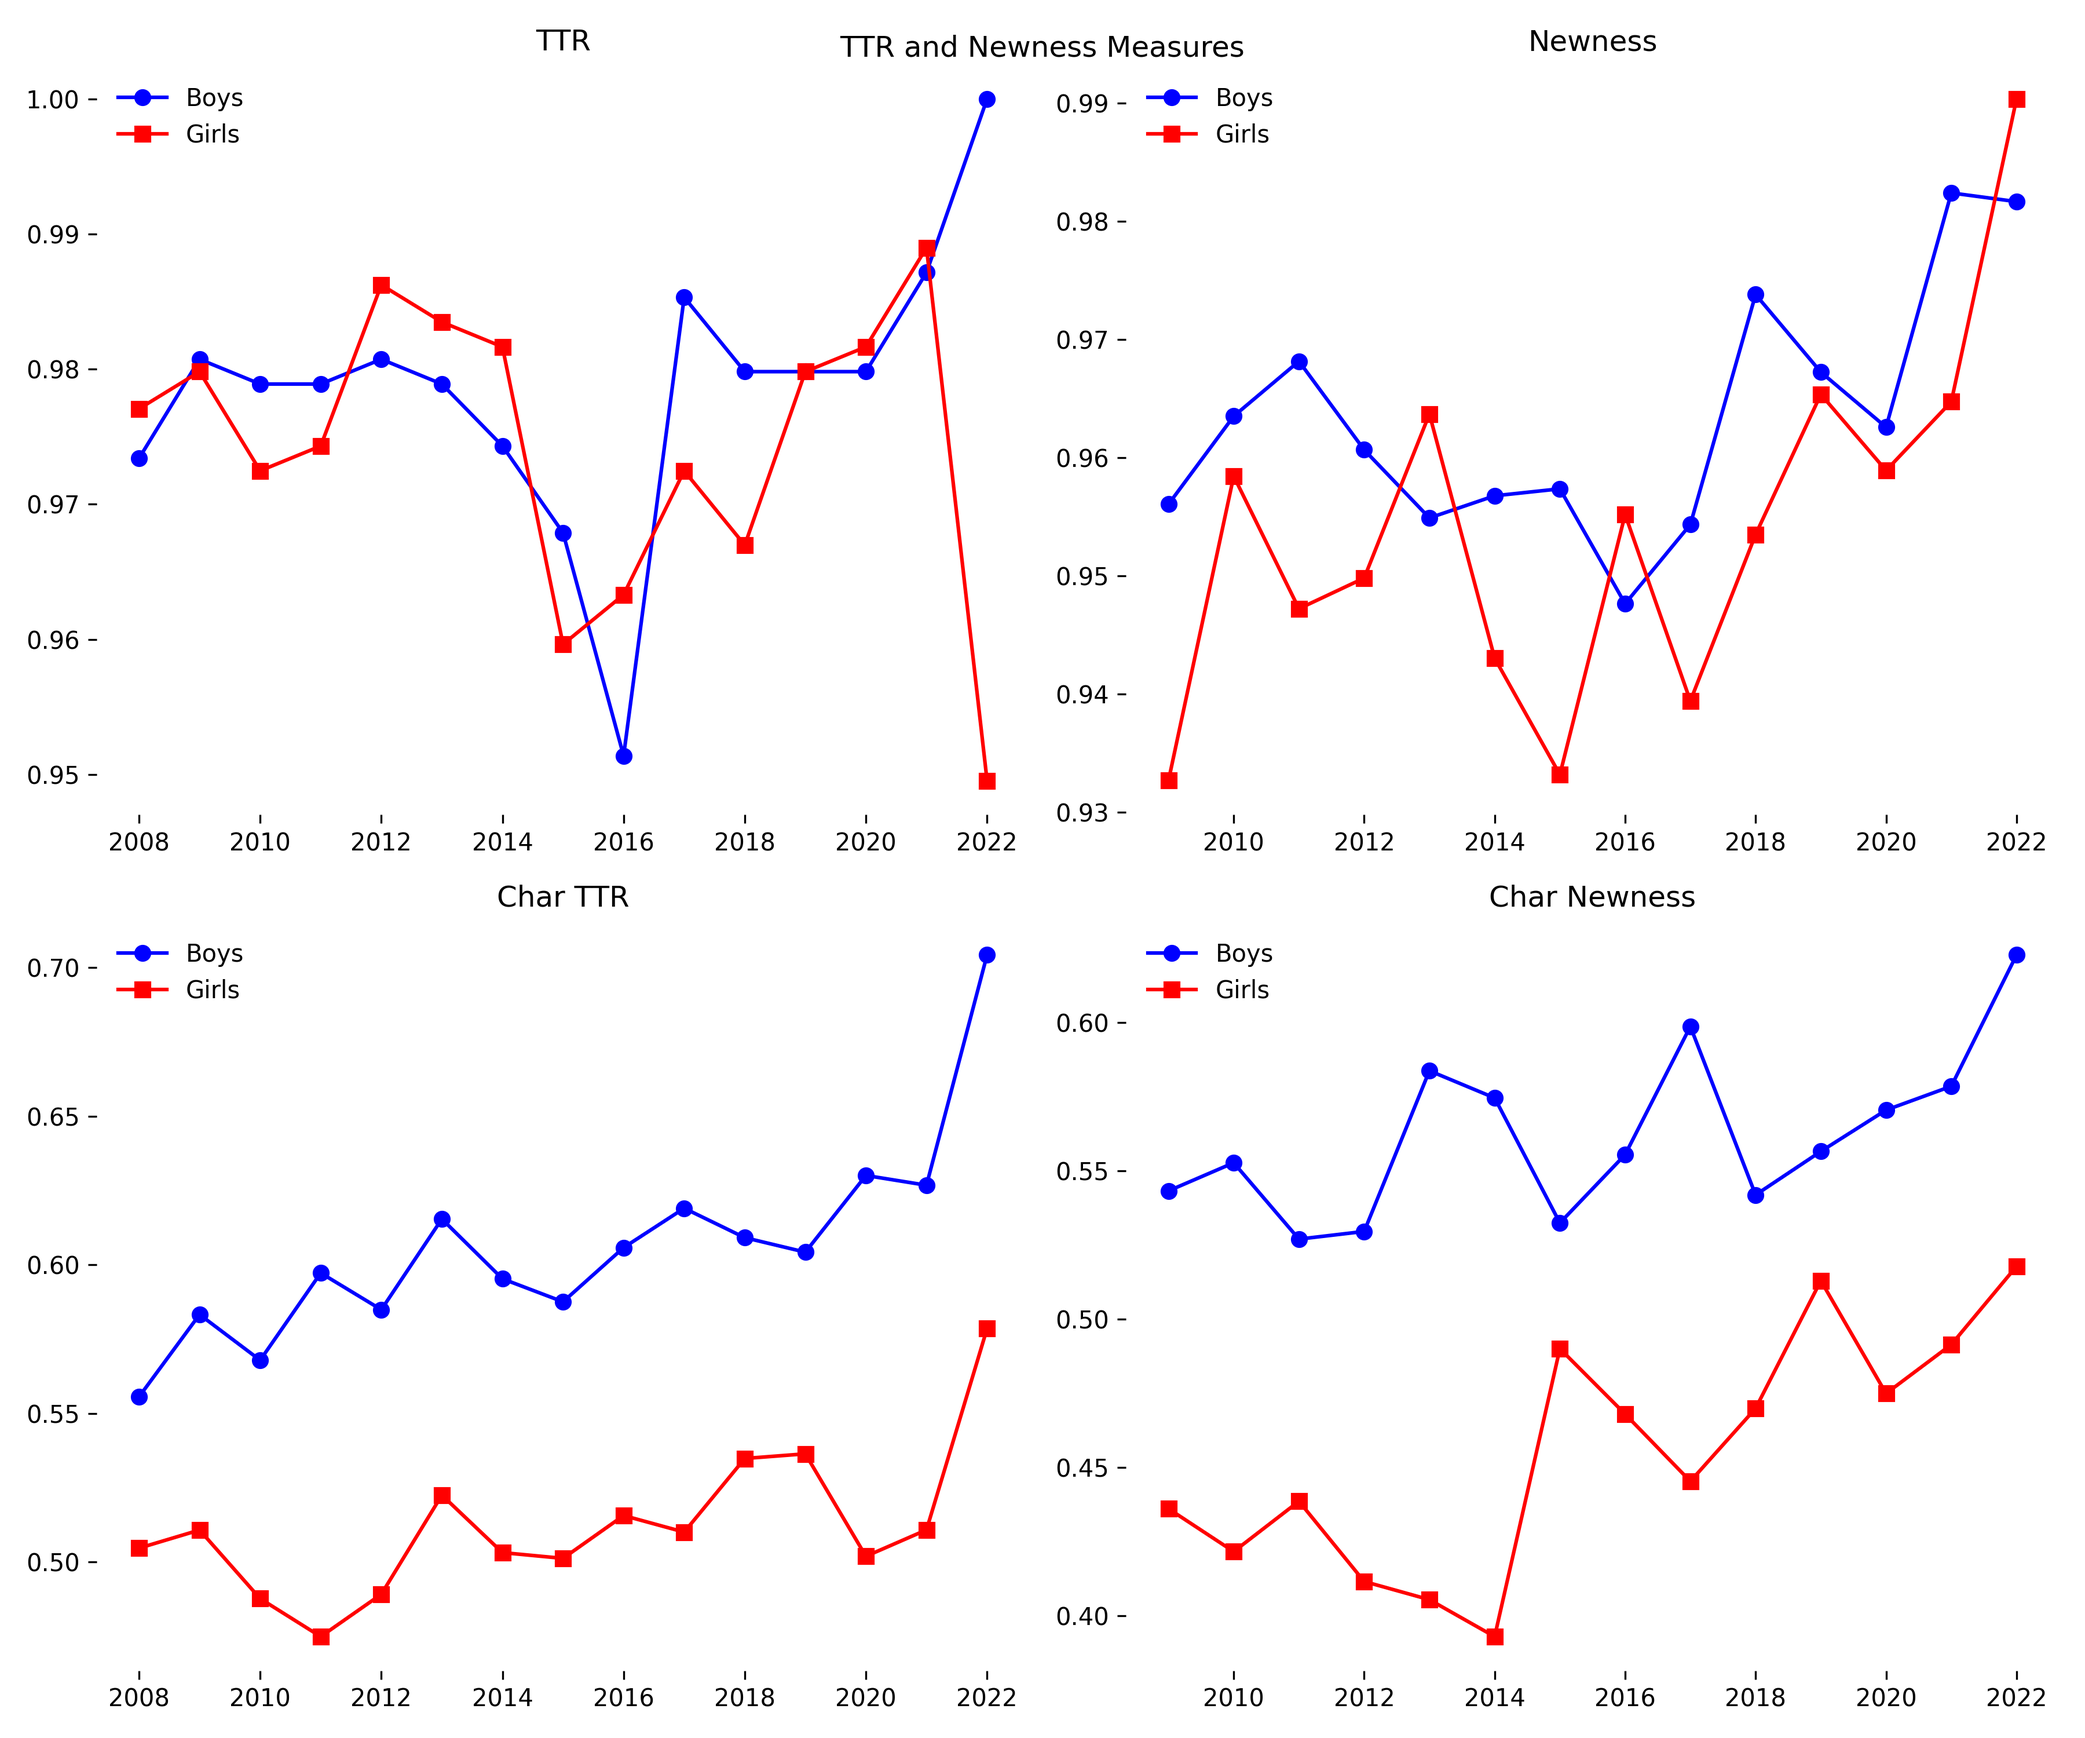
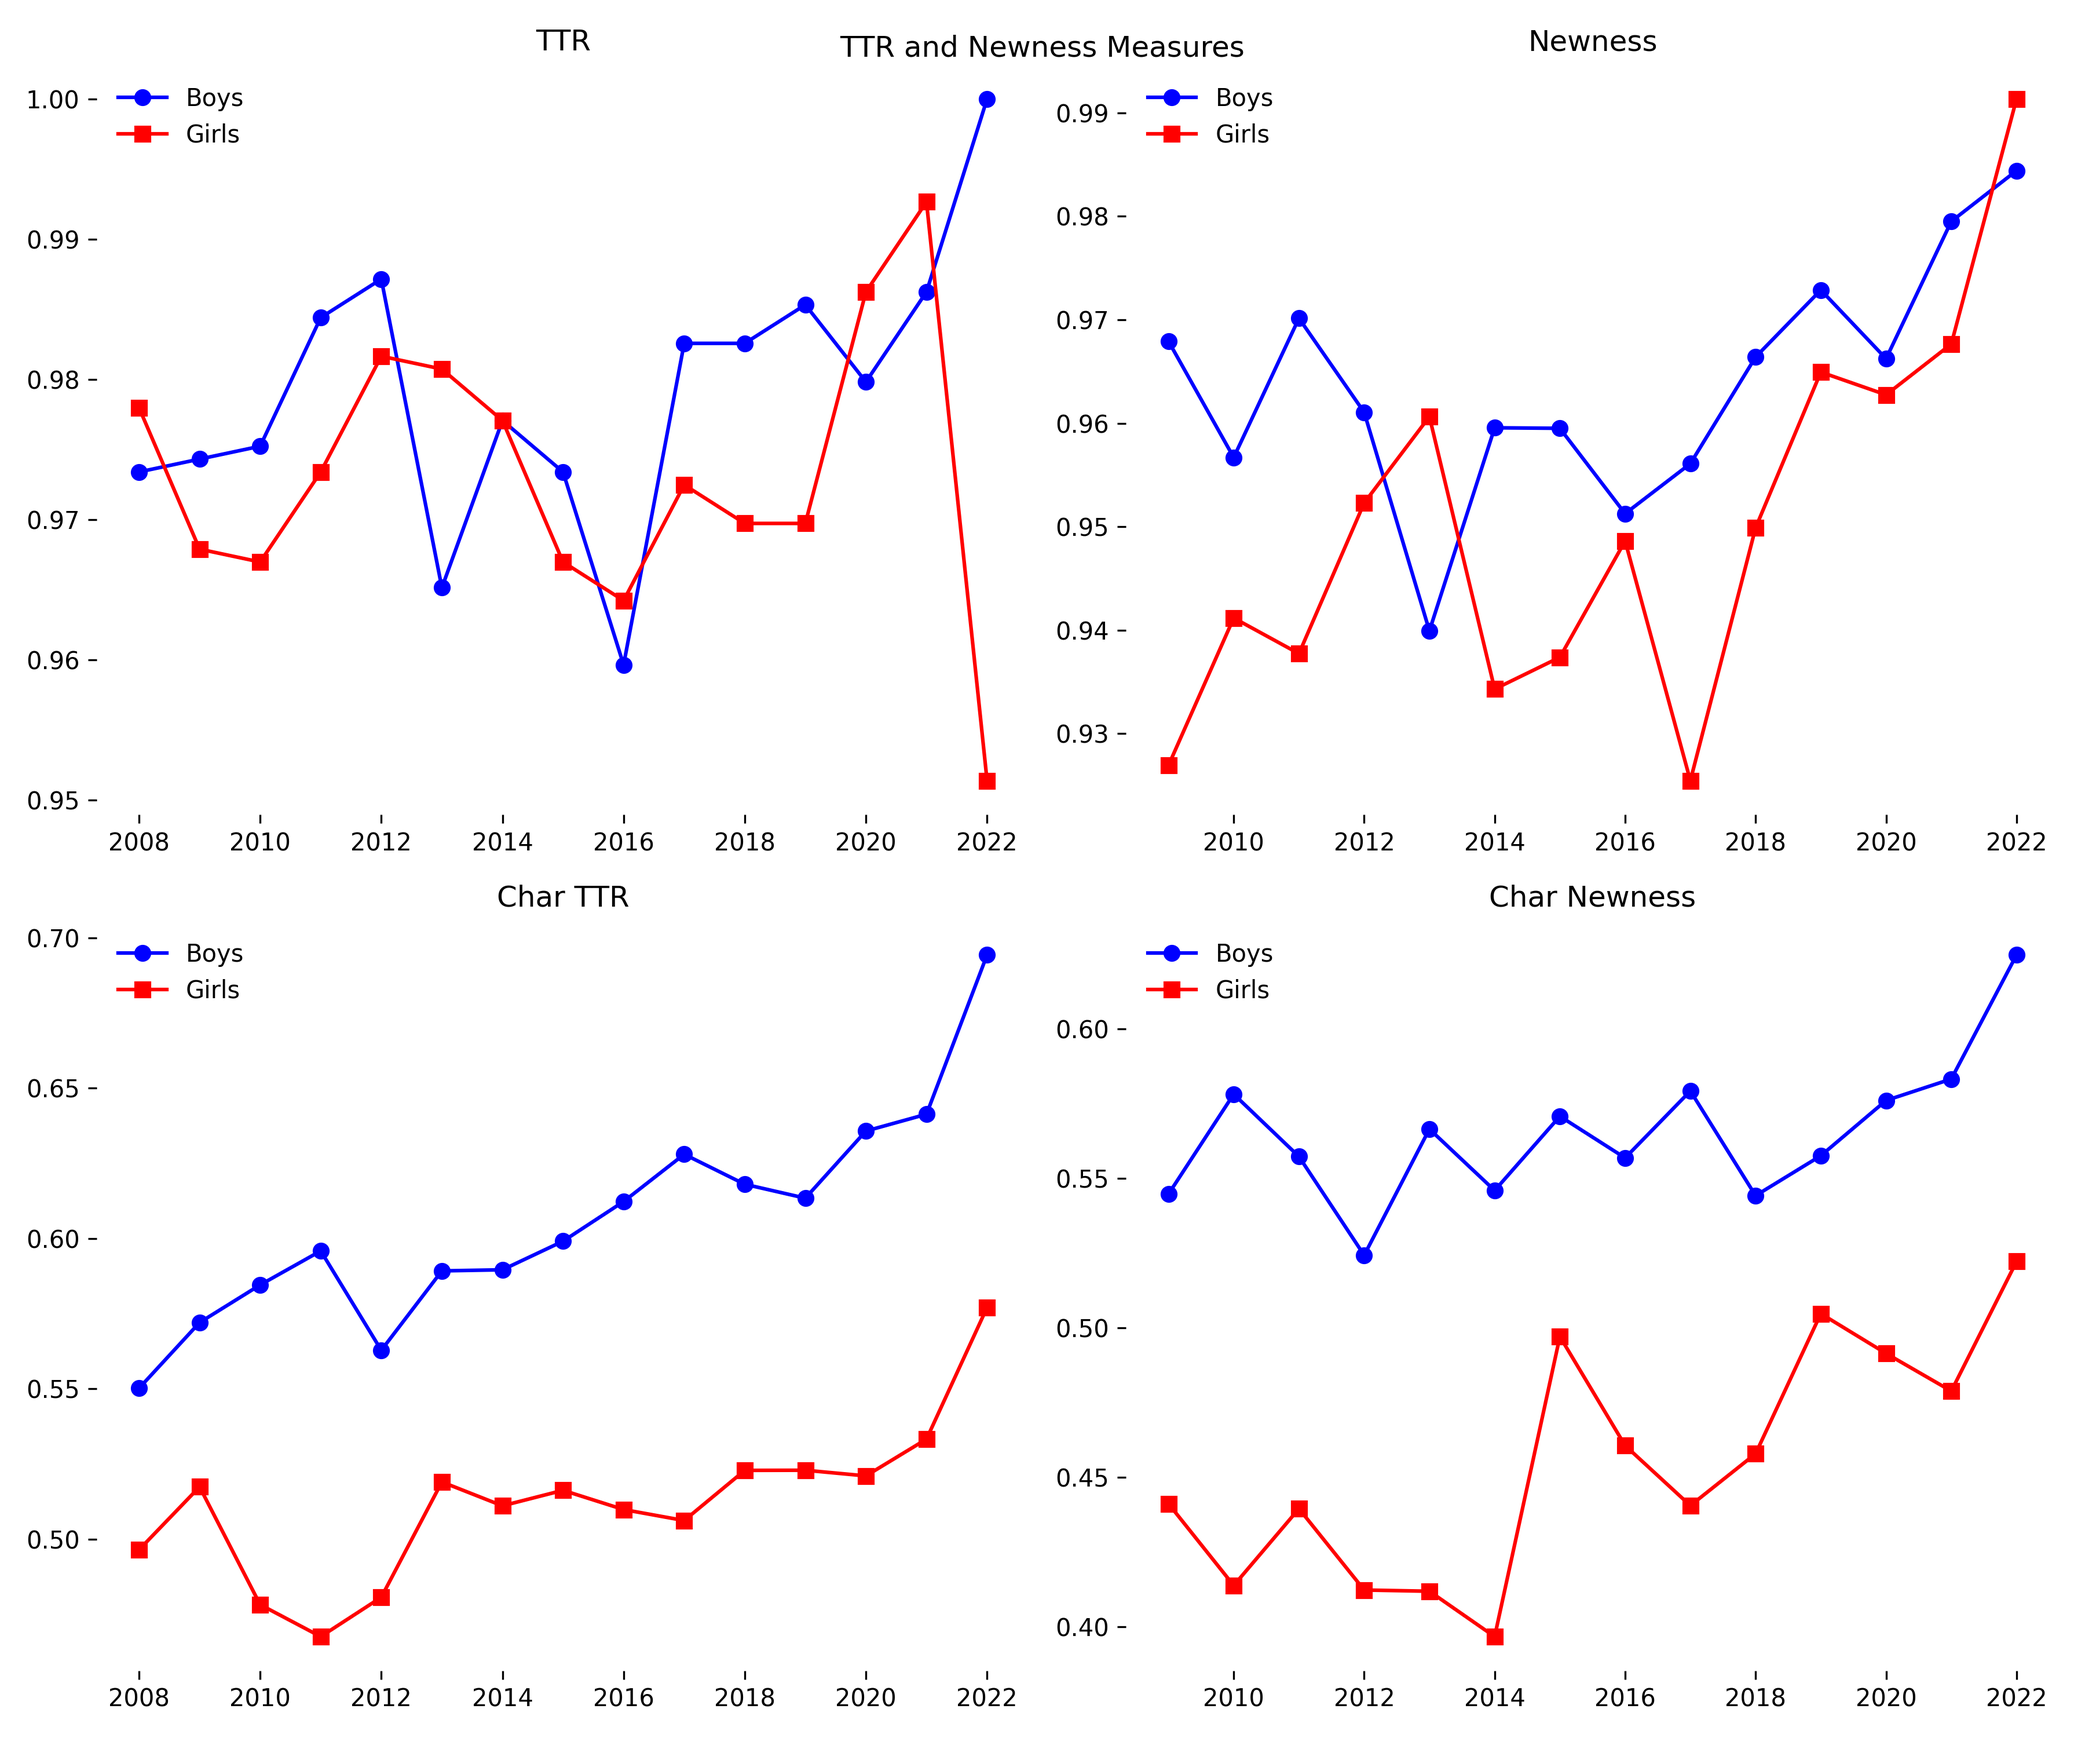
tweaked names, added 2022, 2023 births, beautify tables

diff --git a/scripts/pub-tables.py b/scripts/pub-tables.py
@@ -26,6 +26,8 @@ base = { 'caption':'',
 
 def DBname(src):
     names = {'totals':'Meiji (Total)',
+             'meiji':'Meiji Yasuda',
+             'hs':'Heisei Namae',
              'births':'Births'}
     if src in names:
         return names[src]
@@ -35,7 +37,7 @@ def DBname(src):
         'Unknown'
     
 
-def make_overview(c):
+def make_overview(c, start=1989):
     """
     Summarise the data sources
     """
@@ -43,11 +45,12 @@ def make_overview(c):
     table['caption'] = "Overview of data"
     table['headers'] = ["Source", "From", "To", '# Names', "#/year", "Comment"]
     
-    c.execute("""select src, min(year), max(year), sum(count) as freq
-    from name_year_cache
-    where src in ('bc', 'hs', 'meiji', 'births')
-    group by src
-    order by freq""")
+    c.execute("""SELECT src, min(year), max(year), sum(count) AS freq
+    FROM name_year_cache
+    WHERE src IN ('bc', 'hs', 'meiji', 'births')
+    AND year >= ? 
+    GROUP BY src
+    ORDER BY freq""", (start,))
 
     comment = { 'bc': 'Includes Pronunciation',
                 'hs': 'Noisy data',

diff --git a/web/filters.py b/web/filters.py
@@ -7,7 +7,10 @@ def format_cell(value):
     used in the render_table macro
     """
     if isinstance(value, (int, float)):
-        return {'value': f'{value:,}', 'is_number': True}
+        if isinstance(value, int) and value >= 1989 and value <=2023: # it's a year
+            return {'value': f'{value}', 'is_number': False}
+        else:
+            return {'value': f'{value:,}', 'is_number': True}
     
     if isinstance(value, str):
         clean_value = value.replace(',', '').replace('$', '').strip()
@@ -17,7 +20,10 @@ def format_cell(value):
                 return {'value': f'{num:,.2f}', 'is_number': True}
             else:
                 num = int(clean_value)
-                return {'value': f'{num:,}', 'is_number': True}
+                if num >= 1989 and num <=2023: # it's a year
+                    return {'value': f'{num}', 'is_number': False}
+                else:
+                    return {'value': f'{num:,}', 'is_number': True}
         except ValueError:
             pass
     

diff --git a/scripts/pub-years.py b/scripts/pub-years.py
@@ -217,7 +217,12 @@ if __name__ == "__main__":
     # Method 1: Load from database
     db_path = os.path.join(os.path.dirname(__file__), '../web/db/namae.db')
     data = get_data(db_path)
-    create_japanese_names_chart(data, 'japanese_names_book_figure.png')
-    create_japanese_names_chart(data, 'japanese_names_book_figure_log.png',
+    outdir =  os.path.join(os.path.dirname(__file__), '../web/static/plot')
+
+    figpath = os.path.join(outdir, 'book_overview.png')
+    create_japanese_names_chart(data, figpath)
+
+    figpath = os.path.join(outdir, 'book_overview_log.png')
+    create_japanese_names_chart(data, figpath,
                                 use_log_scale=True)
     

diff --git a/scripts/calculate-years.py b/scripts/calculate-years.py
@@ -42,7 +42,7 @@ def store_births(db_path):
     fh = open('../data/live_births_year.tsv')
     for l in fh:
         row = l.strip().split()
-        if row[0] == 'Year':
+        if not row or row[0] == 'Year':
             continue
         else:
             c.execute("""

diff --git a/data/README.md b/data/README.md
@@ -5,3 +5,7 @@
 This is from the National Institute of Population and Social Security Research (IPSS), specifically table 04-01 from:
 
 https://www.ipss.go.jp/p-info/e/psj2023/PSJ2023-04.xls
+
+With updates for 2022. 2023 from:
+
+https://www.e-stat.go.jp/en/stat-search/files?page=1&layout=dataset&toukei=00450011&tstat=000001028897&cycle=7&tclass1=000001053058&tclass2=000001053061&tclass3=000001053064&stat_infid=000040207114&alpha=7%2C8%2C9&tclass4val=0
